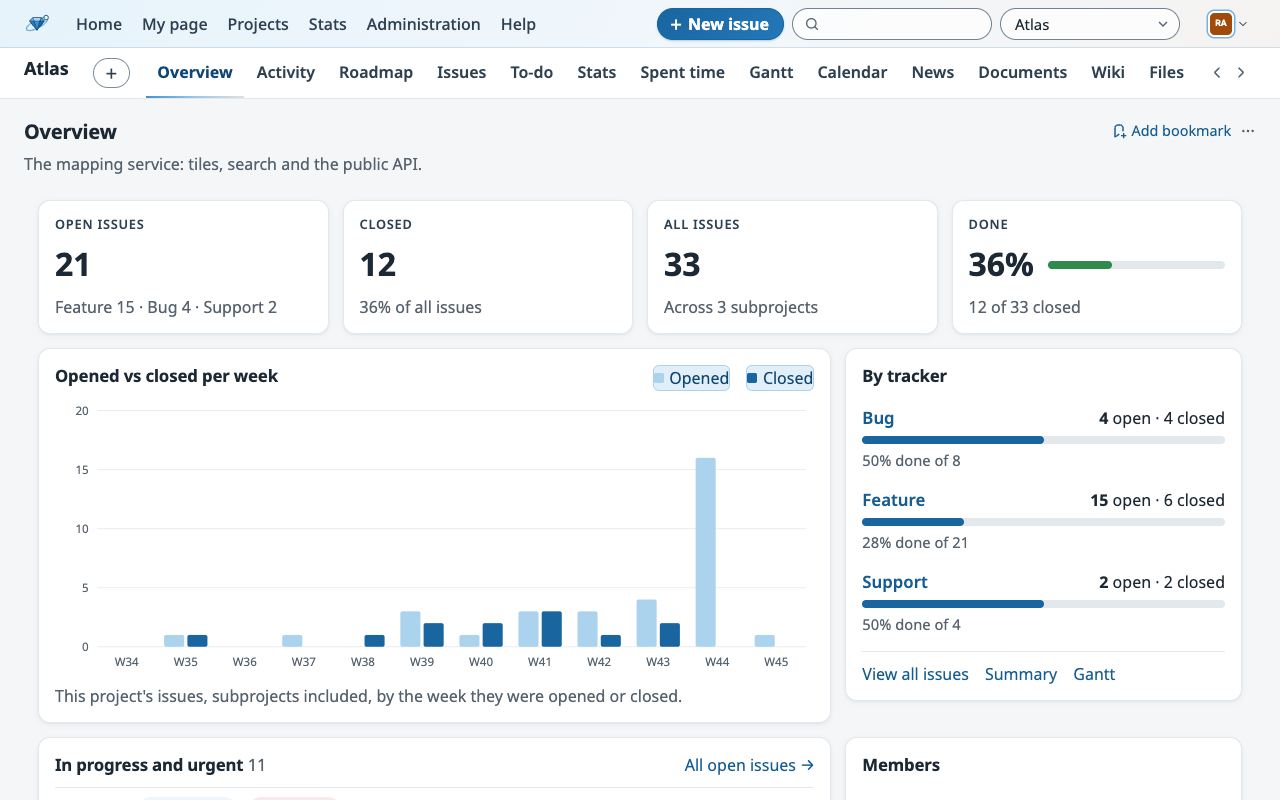
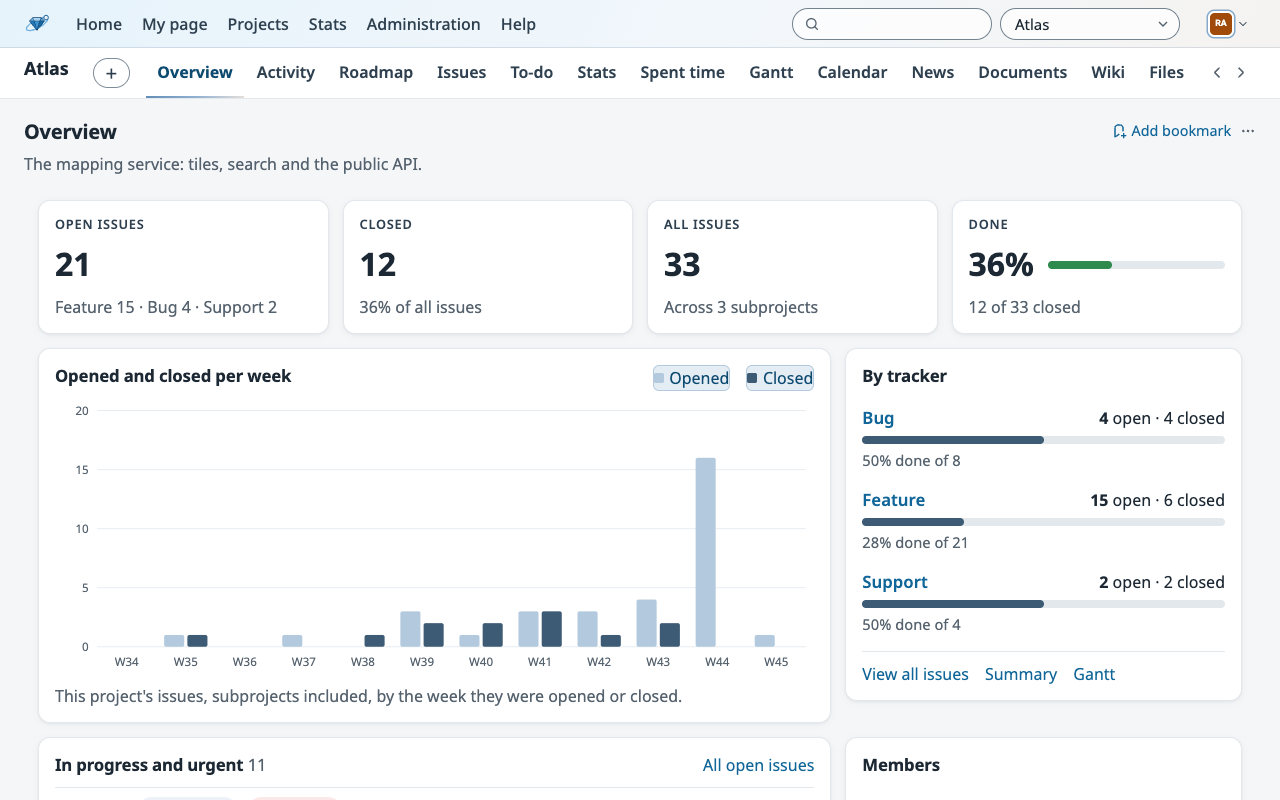
docs: retake the screenshots and GIFs in the steel blue accent
The issue list, issue, new issue, project, projects and sign in
screenshots and both walkthrough GIFs show the steel blue links,
buttons and tabs. The home and My page screenshots are not retaken yet.
The README names the new accent.

diff --git a/README.md b/README.md
@@ -8,7 +8,7 @@
 [![license](https://img.shields.io/github/license/rubylode/redmine-theme-moonstone)](https://github.com/rubylode/redmine-theme-moonstone/blob/main/LICENSE)
 ![Redmine](https://img.shields.io/badge/Redmine-7.0-b22222)
 
-A light theme for Redmine 7 and up: white panels on an off-white page, a sky-blue primary colour, and coloured status and priority chips.
+A light theme for Redmine 7 and up: white panels on an off-white page, a steel-blue accent for links and buttons, and coloured status and priority chips.
 
 It is plain CSS plus one small script (`javascripts/theme.js`, about 45 lines), with no plugin, no build step and no change to
 Redmine itself. The script only reads the page: it puts a status dot beside the group name in an issue list grouped by status,
